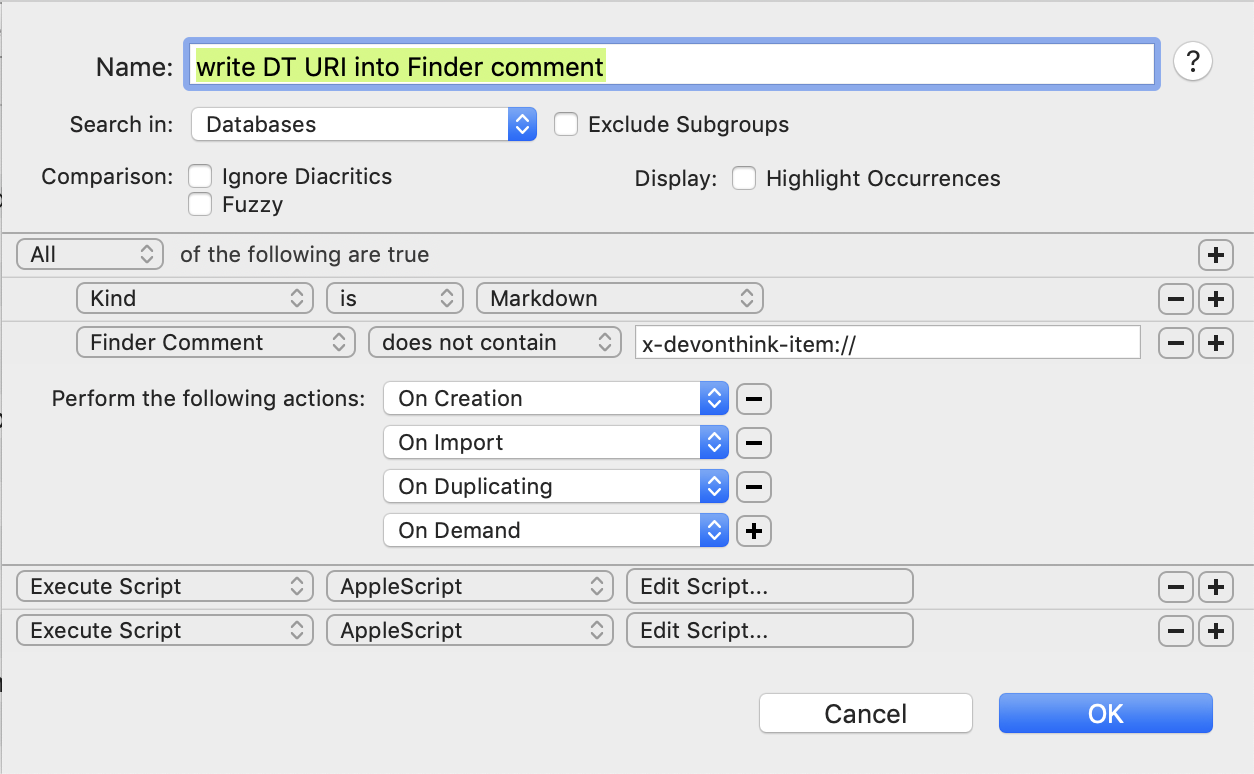
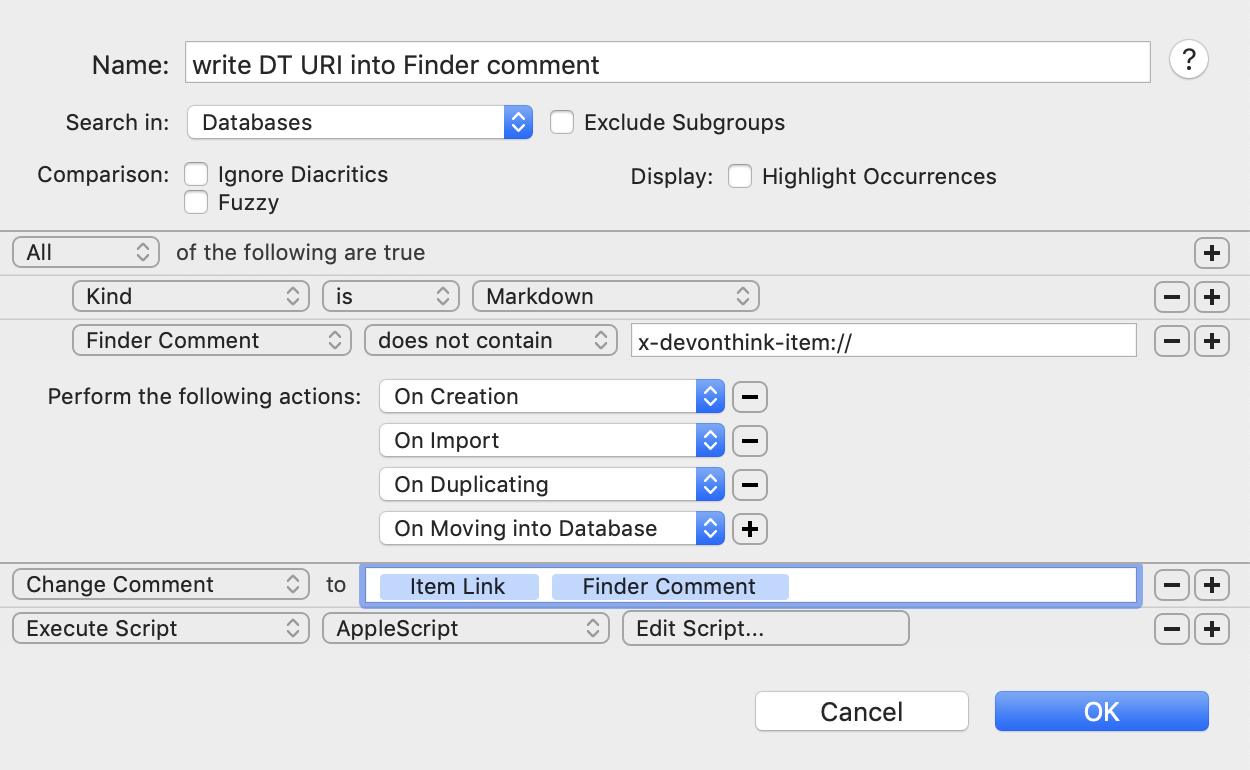
Update info

diff --git a/write-uri-into-comments/README.md b/write-uri-into-comments/README.md
@@ -1,8 +1,13 @@
 # Write DEVONthink URI into Finder comment
 
-There are two AppleScript scripts here. I use them to write the `x-devonthink-item` URI of a DEVONthink Markdown document into the document's Finder comments, so that when the document is viewed externally it is possible to jump to it in a DEVONthink database. The scripts are trigged by a DEVONthink Smart Rule that looks like this:
+I use the AppleScript included here to write the `x-devonthink-item` URI of a DEVONthink Markdown document into the document's Finder comments, so that when the document is edited or viewed externally, it is possible to find its record in a DEVONthink database. The script is trigged by a DEVONthink Smart Rule that looks like this:
 
 <p align="center">
     <img align="center" width="600px" src="smart-rule-screenshot.png">
 <p>
 
+The first part of the Smart Rule action writes the `x-devonthink-item` URI into the Finder comment shown by DEVONthink to the user; the second part is a short AppleScript that invokes [Urial](https://github.com/mhucka/urial). 
+
+The need for both actions is due to how DEVONthink behaves (at least up to version 3.8). When you modify the metadata field called "Finder Comments" in the DEVONthink user interface, it [does not actually write the field value to the macOS file](https://discourse.devontechnologies.com/t/how-can-i-make-finder-comments-added-in-dt-show-up-in-finder-get-info-box/68186) at that point. Thus, merely updating the comment in DEVONthink is not enough to make it visible outside of DEVONthink, and an additional action is needed.
+
+I wrote [Urial](https://github.com/mhucka/urial) to help with this task; the program intelligently updates URIs in Finder comments rather than blindly replacing the comment text. If you don't want to use Urial, you could accomplish most (or all, if you're really motivated) of the same thing by writing some AppleScript or JavaScript code.
